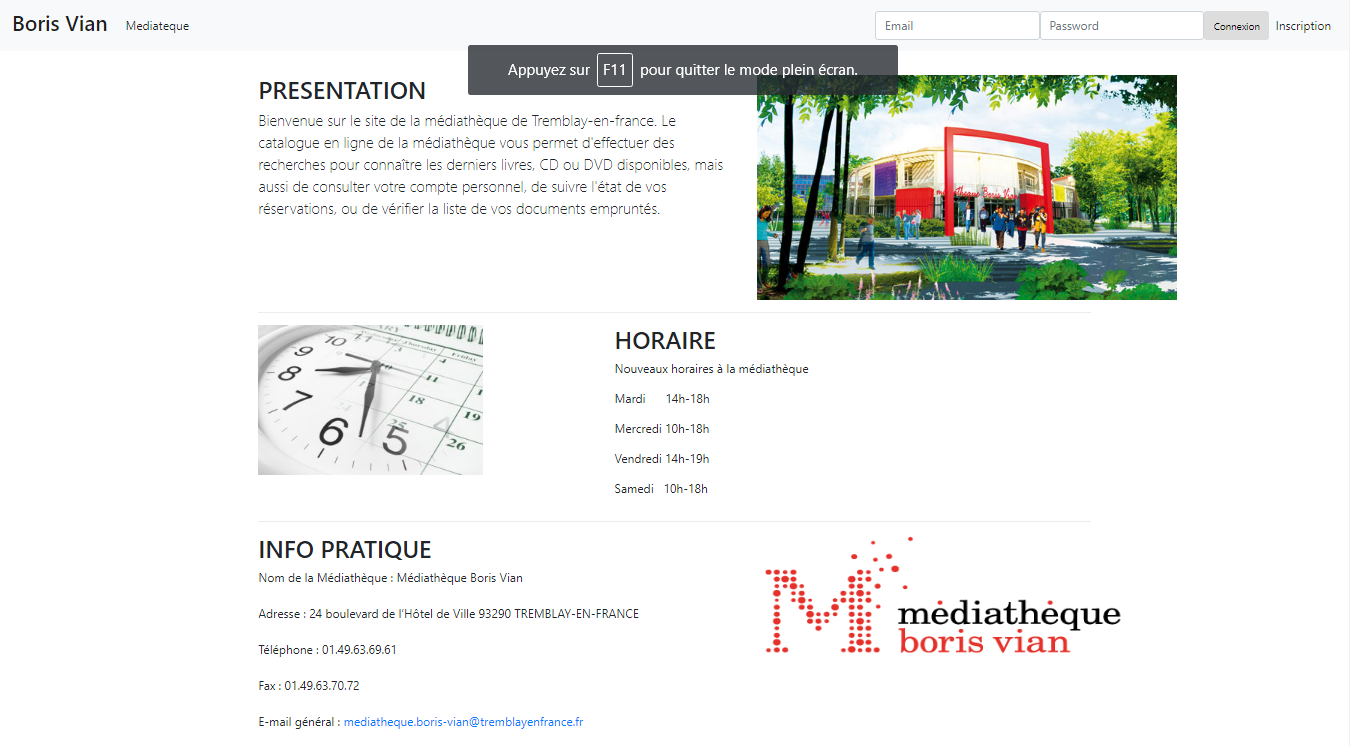
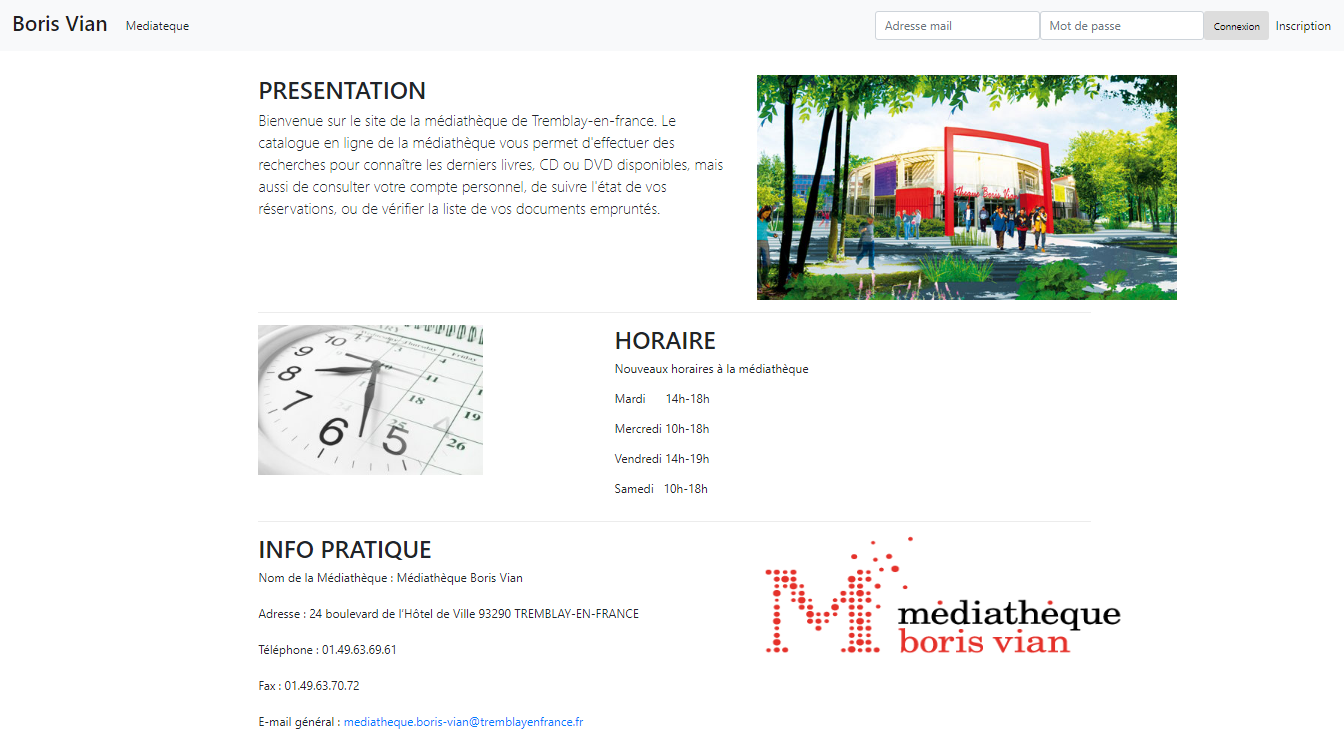
Màj eng>fr // images ressources

diff --git a/inscription.php b/inscription.php
@@ -32,12 +32,12 @@ if(isset($_SESSION['message'])) {
                     <h5 class="card-title text-center">Inscription</h5>
                     <form class="form-signin" method="post" action="Traitement/traitementInscription.php">
                         <div class="form-label-group">
-                            <label>Email address</label>
+                            <label>Adresse email</label>
                             <input type="email" name="mail" class="form-control" placeholder="Entrer votre adresse mail" required autofocus>
                         </div>
 
                         <div class="form-label-group">
-                            <label>Password</label>
+                            <label>Mot de passe</label>
                             <input type="password" name="mdp" class="form-control" placeholder="Au moins 6 caractères" required>
                         </div>
 

diff --git a/navbar.php b/navbar.php
@@ -14,8 +14,8 @@
 
         <form class="form-inline my-2 my-lg-0" role="form" method="post" action="Traitement/traitementConnexion.php">
             <div class="form-group">
-                <input type="email" class="form-control" name="mail" placeholder="Email" required>
-                <input type="password" class="form-control" name="mdp" placeholder="Password" required>
+                <input type="email" class="form-control" name="mail" placeholder="Adresse mail" required>
+                <input type="password" class="form-control" name="mdp" placeholder="Mot de passe" required>
             </div>
             <button type="submit" class="btn btn-default"><font size=2>Connexion</font></button>
         </form>
